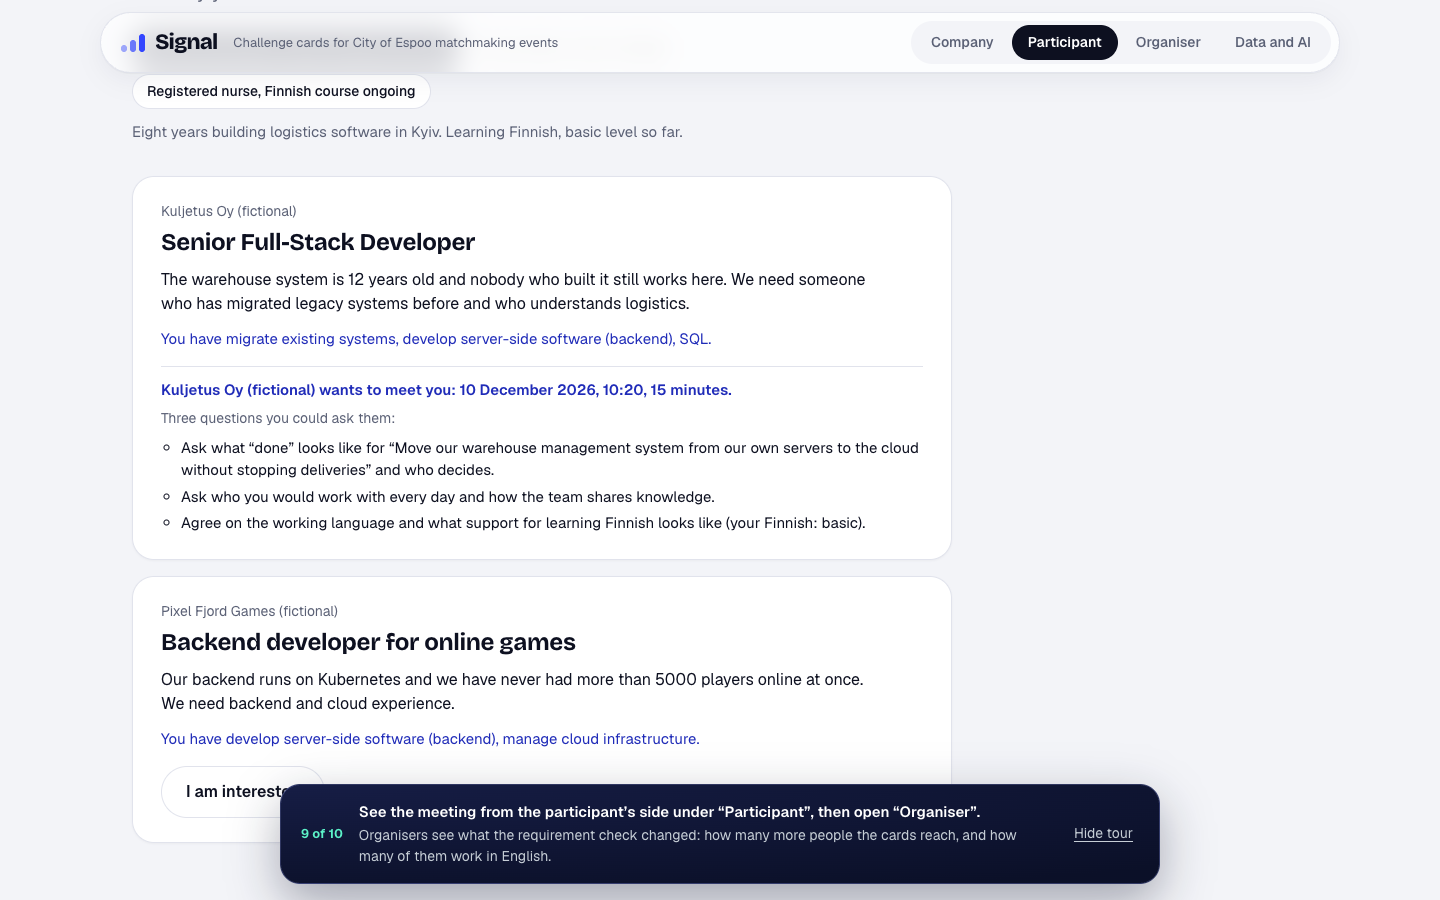
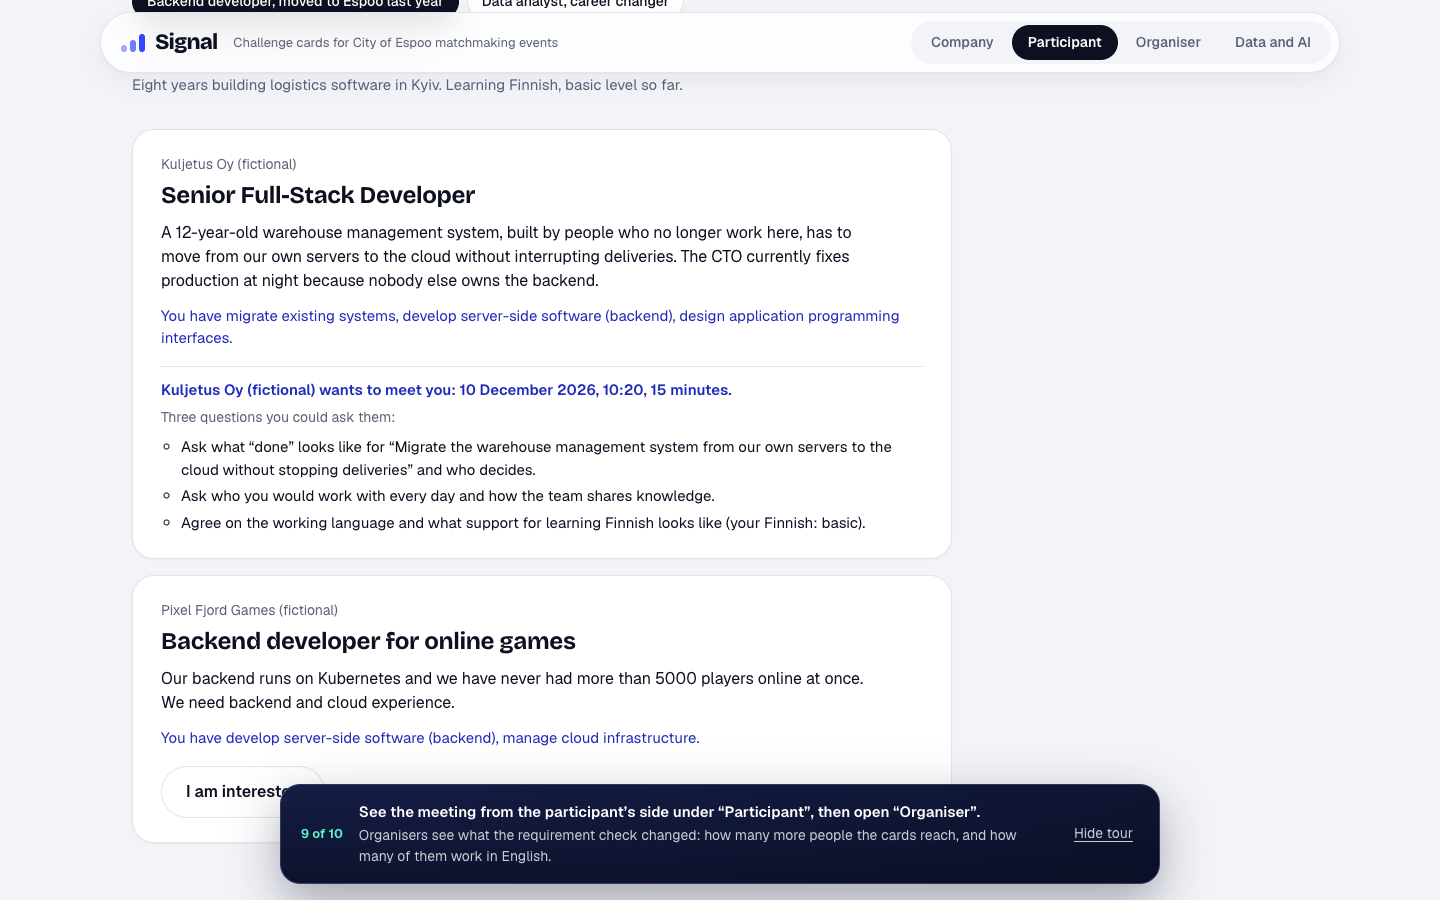
Claude drafting tested; offline extractor hardened

Changed region(s): [[0.0938, 0.0, 0.625, 0.4044], [0.0938, 0.6533, 0.5938, 0.84], [0.125, 0.4356, 0.625, 0.56]]

diff --git a/src/engine/flags.ts b/src/engine/flags.ts
@@ -54,7 +54,7 @@ const TEMPLATES: Record<string, Omit<Flag, 'key'>> = {
     relaxTo: 'No degree required',
   },
   minYears: {
-    title: 'Many years of experience',
+    title: 'Minimum years of experience',
     reason: 'Years in a role measure time, not ability. People who changed careers or countries often have fewer formal years.',
     question: 'What should the person have done before, rather than for how long?',
     relaxTo: 'At least 2 years',
@@ -74,7 +74,26 @@ const TEMPLATES: Record<string, Omit<Flag, 'key'>> = {
 }
 
 /** Rule-based check. Claude, when available, rewrites reasons and questions from the company's own words. */
-export function findFlags(card: ChallengeCard, justified: Set<RequirementKey> = new Set()): Flag[] {
+/** Whether a requirement is set at all, so relaxing it could change something. */
+function isSet(card: ChallengeCard, key: RequirementKey): boolean {
+  const r = card.requirements
+  switch (key) {
+    case 'finnish': return r.finnish >= 1
+    case 'swedish': return r.swedish >= 1
+    case 'english': return r.english >= 3 // working English is a fair ask; only fluent is questioned
+    case 'degree': return r.degree !== 'none'
+    case 'minYears': return r.minYears > 2
+    case 'livesInFinland': return r.livesInFinland
+    case 'noPermitNeeded': return r.noPermitNeeded
+    default: return false
+  }
+}
+
+/**
+ * The rules find the usual suspects; `suggested` adds requirements Claude questioned from the company's own words
+ * (for example three years of experience for work that needs none). Justified requirements are never flagged.
+ */
+export function findFlags(card: ChallengeCard, justified: Set<RequirementKey> = new Set(), suggested: RequirementKey[] = []): Flag[] {
   const r = card.requirements
   const candidates: RequirementKey[] = []
   if (r.finnish >= 2) candidates.push('finnish')
@@ -84,6 +103,7 @@ export function findFlags(card: ChallengeCard, justified: Set<RequirementKey> = 
   if (r.minYears >= 4) candidates.push('minYears')
   if (r.livesInFinland) candidates.push('livesInFinland')
   if (r.noPermitNeeded) candidates.push('noPermitNeeded')
+  for (const k of suggested) if (!candidates.includes(k) && k in TEMPLATES && isSet(card, k)) candidates.push(k)
 
   const flags: Flag[] = candidates
     .filter((k) => !justified.has(k))

diff --git a/src/engine/extractLocal.ts b/src/engine/extractLocal.ts
@@ -18,6 +18,9 @@ function findSkills(text: string): string[] {
 
 function langLevel(text: string, names: string[]): LangLevel {
   const t = text.toLowerCase()
+  // "Finnish not needed", "no Finnish required", "suomea ei tarvita": an explicit no wins.
+  const no = /not (needed|required|necessary)|no need|isn'?t (needed|required)|ei (tarvita|vaadita|tarvitse)|ei ole välttämät/
+  if (names.some((n) => new RegExp(`${n}[^.,;]{0,20}(${no.source})|(${no.source})[^.,;]{0,20}${n}|\\bno ${n}`).test(t))) return 0
   const near = (re: RegExp) =>
     names.some((n) => new RegExp(`(${re.source})[^.,;]{0,25}${n}|${n}[^.,;]{0,25}(${re.source})`).test(t))
   if (near(/fluent|native|sujuva|äidinkiel|excellent|erinomai|c1|c2/)) return 3
@@ -42,7 +45,9 @@ export function extractLocal(a: CompanyAnswers): { card: ChallengeCard; justifie
     /\b(must|need|needs|needed|essential|required|require)\b|tarvi|pitää|välttämät|vaadi/i.test(s),
   )
   const mentioned = [...new Set([...findSkills(a.outcomes), ...findSkills(a.hard)])]
-  const must = essential.length ? [...new Set(essential.flatMap(findSkills))] : mentioned
+  const fromEssential = [...new Set(essential.flatMap(findSkills))]
+  // A requirement sentence without skills ("Fluent Finnish required.") must not hide the skills named elsewhere.
+  const must = fromEssential.length ? fromEssential : mentioned
   const nice = [...new Set([...mentioned, ...findSkills(a.setup)])].filter((s) => !must.includes(s))
 
   let degree: Requirements['degree'] = 'none'

diff --git a/src/engine/__tests__/engine.test.ts b/src/engine/__tests__/engine.test.ts
@@ -102,3 +102,22 @@ test('outcome check: duties are flagged, results are not', () => {
   assert.ok(!outcomeChecks('Responsible for backend development and working with the team.')[0].ok)
   assert.ok(outcomeChecks('Moved the warehouse system to the cloud without stopping deliveries.').every((c) => c.ok))
 })
+
+test('an explicit "not needed" sets the language to zero', () => {
+  const { card: c } = extractLocal({ company: 'X', role: 'Y', outcomes: 'Design three levels.', hard: 'Must have shipped a game. English required, Finnish not needed.', setup: '' })
+  assert.equal(c.requirements.finnish, 0)
+  assert.ok(c.requirements.english >= 2)
+})
+
+test('a requirement sentence without skills does not hide the skills named elsewhere', () => {
+  const { card: c } = extractLocal({ company: 'X', role: 'Y', outcomes: 'Build the backend.', hard: 'Backend and SQL. Fluent Finnish required.', setup: '' })
+  assert.ok(c.must.includes('backend') && c.must.includes('sql'), JSON.stringify(c.must))
+})
+
+test('requirements Claude questioned are flagged too, unless justified', () => {
+  const { card: c } = scenario('logistics')
+  const card = { ...c, requirements: { ...c.requirements, minYears: 3 } }
+  assert.ok(!findFlags(card).some((f) => f.key === 'minYears'))
+  assert.ok(findFlags(card, new Set(), ['minYears']).some((f) => f.key === 'minYears'))
+  assert.ok(!findFlags(card, new Set(['minYears']), ['minYears']).some((f) => f.key === 'minYears'))
+})

diff --git a/src/components/Review.tsx b/src/components/Review.tsx
@@ -104,7 +104,8 @@ export function Review({ card, onCard, justified, onJustified, flagText, source,
   const [hover, setHover] = useState<RequirementKey | null>(null)
   const summary = useMemo(() => summarize(POOL, card), [card])
   const preview: Status[] | null = useMemo(() => (hover ? summarize(POOL, relax(card, hover)).statuses : null), [card, hover])
-  const flags = useMemo(() => findFlags(card, new Set(justified)), [card, justified])
+  const suggested = useMemo(() => Object.keys(flagText) as RequirementKey[], [flagText])
+  const flags = useMemo(() => findFlags(card, new Set(justified), suggested), [card, justified, suggested])
   const allRelaxed = useMemo(() => flags.reduce((c, f) => relax(c, f.key), card), [flags, card])
   const allSummary = useMemo(() => summarize(POOL, allRelaxed), [allRelaxed])
   const r = card.requirements
@@ -204,6 +205,12 @@ export function Review({ card, onCard, justified, onJustified, flagText, source,
             Publish to the event
           </button>
         </div>
+        {card.must.length === 0 && (
+          <p className="hint">
+            Add at least one must-have skill under “Add a skill”, so the card can be matched. If the draft found none,
+            your answers may describe duties rather than the work: try naming what the person gets done.
+          </p>
+        )}
       </div>
 
       <aside className="side-col">

diff --git a/src/components/Describe.tsx b/src/components/Describe.tsx
@@ -122,7 +122,7 @@ export function Describe({ answers, onChange, onSubmit, busy, ai }: Props) {
         ))}
         <div className="submit-row">
           <button className="primary" type="submit" disabled={!ready || busy}>
-            {busy ? 'Drafting your card…' : 'Draft my challenge card'}
+            {busy ? (ai ? 'Claude is drafting your card, about 10 seconds…' : 'Drafting your card…') : 'Draft my challenge card'}
           </button>
           <p className="hint">
             {ai

diff --git a/src/index.css b/src/index.css
@@ -1777,3 +1777,8 @@ th {
     flex: none;
   }
 }
+/* Drafted text varies in length, so the card's text fields grow with it. */
+.block textarea {
+  field-sizing: content;
+  min-height: 3lh;
+}

diff --git a/SUBMISSION.md b/SUBMISSION.md
@@ -31,7 +31,7 @@ Most solutions start from the jobseeker's CV. Signal starts from the company, be
 ## What Signal does
 
 1. **Describe the work, not the job ad.** Three questions: what the new person has done after three months, what makes it hard and what they need, who they work with. Typing or dictation (in browsers that support it), in English or Finnish. About five minutes.
-2. **Challenge card.** A card is drafted from the answers (by Claude when an API key is configured; the public demo uses offline keyword rules): the real problem, the three-month outcomes, must-have and learnable skills mapped to the EU ESCO classification, and the requirements exactly as the company stated them. The company edits and approves every line.
+2. **Challenge card.** Claude drafts a card from the answers (tested on English and Finnish input, vague and very short answers, and an answer with an embedded instruction, which it ignored); the public demo, which has no API key, uses offline keyword rules: the real problem, the three-month outcomes, must-have and learnable skills mapped to the EU ESCO classification, and the requirements exactly as the company stated them. The company edits and approves every line.
 3. **The room.** 240 dots, one for each registered participant (synthetic data). They light up live as the card changes: mint for a fit, periwinkle for a fit through related skills, amber for people who have the skills but are kept out by a requirement. The company sees counts, never profiles.
 4. **Requirement check.** Signal flags requirements that keep capable people out without a stated reason, with a question back to the company and the number of people each change would add. Hovering a suggestion previews exactly which dots would change. The company decides; nothing changes automatically. When the company gave a real reason, for example Finnish for a nurse who talks with elderly residents every day, Signal respects it and does not flag it.
 5. **Participant view.** Participants see only the cards that fit them, with a plain reason ("You have SQL; Java is close to backend"). No CV to polish: to show interest they pick one of the company's outcomes and say, in two or three sentences and in any language, when they did something like it. The company reads that with the skills, without a name. Cards a person is kept out of by a requirement stay hidden, and the organisers see how many.
@@ -58,7 +58,7 @@ In the logistics example, the card as first written reaches **1** of 240 partici
 ## How it is built
 
 - React and TypeScript (Vite), one page, no backend database.
-- Claude Opus 5.5 through the Anthropic TypeScript SDK with structured outputs; the server-side call lives in `server/claude.ts`. The API key stays on the server. The public demo has no key and drafts with the offline extractor.
+- Claude Opus 5.5 through the Anthropic TypeScript SDK with structured outputs; the server-side call lives in `server/claude.ts`. The API key stays on the server. A card takes 4 to 11 seconds and a few cents. Claude's own questions about requirements are merged with the rule-based check, and requirements the company justified are never flagged. The public demo has no key and drafts with the offline extractor.
 - Skills taxonomy of 49 skills modelled on ESCO, with related skills for transferable matches.
 - 240 synthetic participants generated from a fixed seed, so every demo shows the same room.
 - A guided tour for anyone who opens the link alone: a bar at the bottom says what to do next and why it matters, and follows the visitor's own clicks.
@@ -68,7 +68,7 @@ In the logistics example, the card as first written reaches **1** of 240 partici
 
 Built end to end: company card, requirement check, participant view, company inbox, meetings with conversation questions, organiser view. Next:
 
-1. Test and tune the Claude drafting against real hiring managers' answers; today the public demo runs on the offline extractor.
+1. Tune the Claude drafting against real hiring managers' answers, and give the public demo a rate-limited server so visitors can try Claude too.
 2. A Finnish-language interface, and ESCO URIs from the ESCO API instead of our 49-skill subset.
 3. Claude writing the conversation questions from the actual answer, as it already does for the card.
 4. Feedback after each meeting from both sides, so organisers can show companies what the event led to.
@@ -77,7 +77,7 @@ Built end to end: company card, requirement check, participant view, company inb
 
 1. **The problem (20 s).** Companies come to Espoo's events late, with vague needs, and with requirements that quietly exclude the international talent in the room.
 2. **Describe (30 s).** Pick "Logistics software company". Read the three answers aloud: they sound normal. Click "Draft my challenge card".
-3. **The room (40 s).** The card reaches 1 of 240. Fourteen amber dots have the skills but are kept out by requirements.
+3. **The room (40 s).** The card reaches 1 of 240 (with Claude drafting live, the exact numbers differ a little from the offline demo). Fourteen amber dots have the skills but are kept out by requirements.
 4. **Requirement check (50 s).** Hover "Change to: Not required to start" on fluent Finnish: three dots light up. Point at "With all suggestions, your card would reach 32". Accept the changes one by one; the room lights up. Then show the care home example: Finnish is kept, because the company gave a reason.
 5. **Participant (30 s).** Publish, then "See it as a participant". The backend developer with basic Finnish now sees the card, with the reason it fits. They answer one outcome in two sentences instead of sending a polished CV.
 6. **Inbox (30 s).** Back to Company: fast forward a week. Five answers, unranked, no names. Click "Meet at the event" on the backend developer: 10:20, with three questions for each side. Switch to Participant: they see the time and their own questions.
